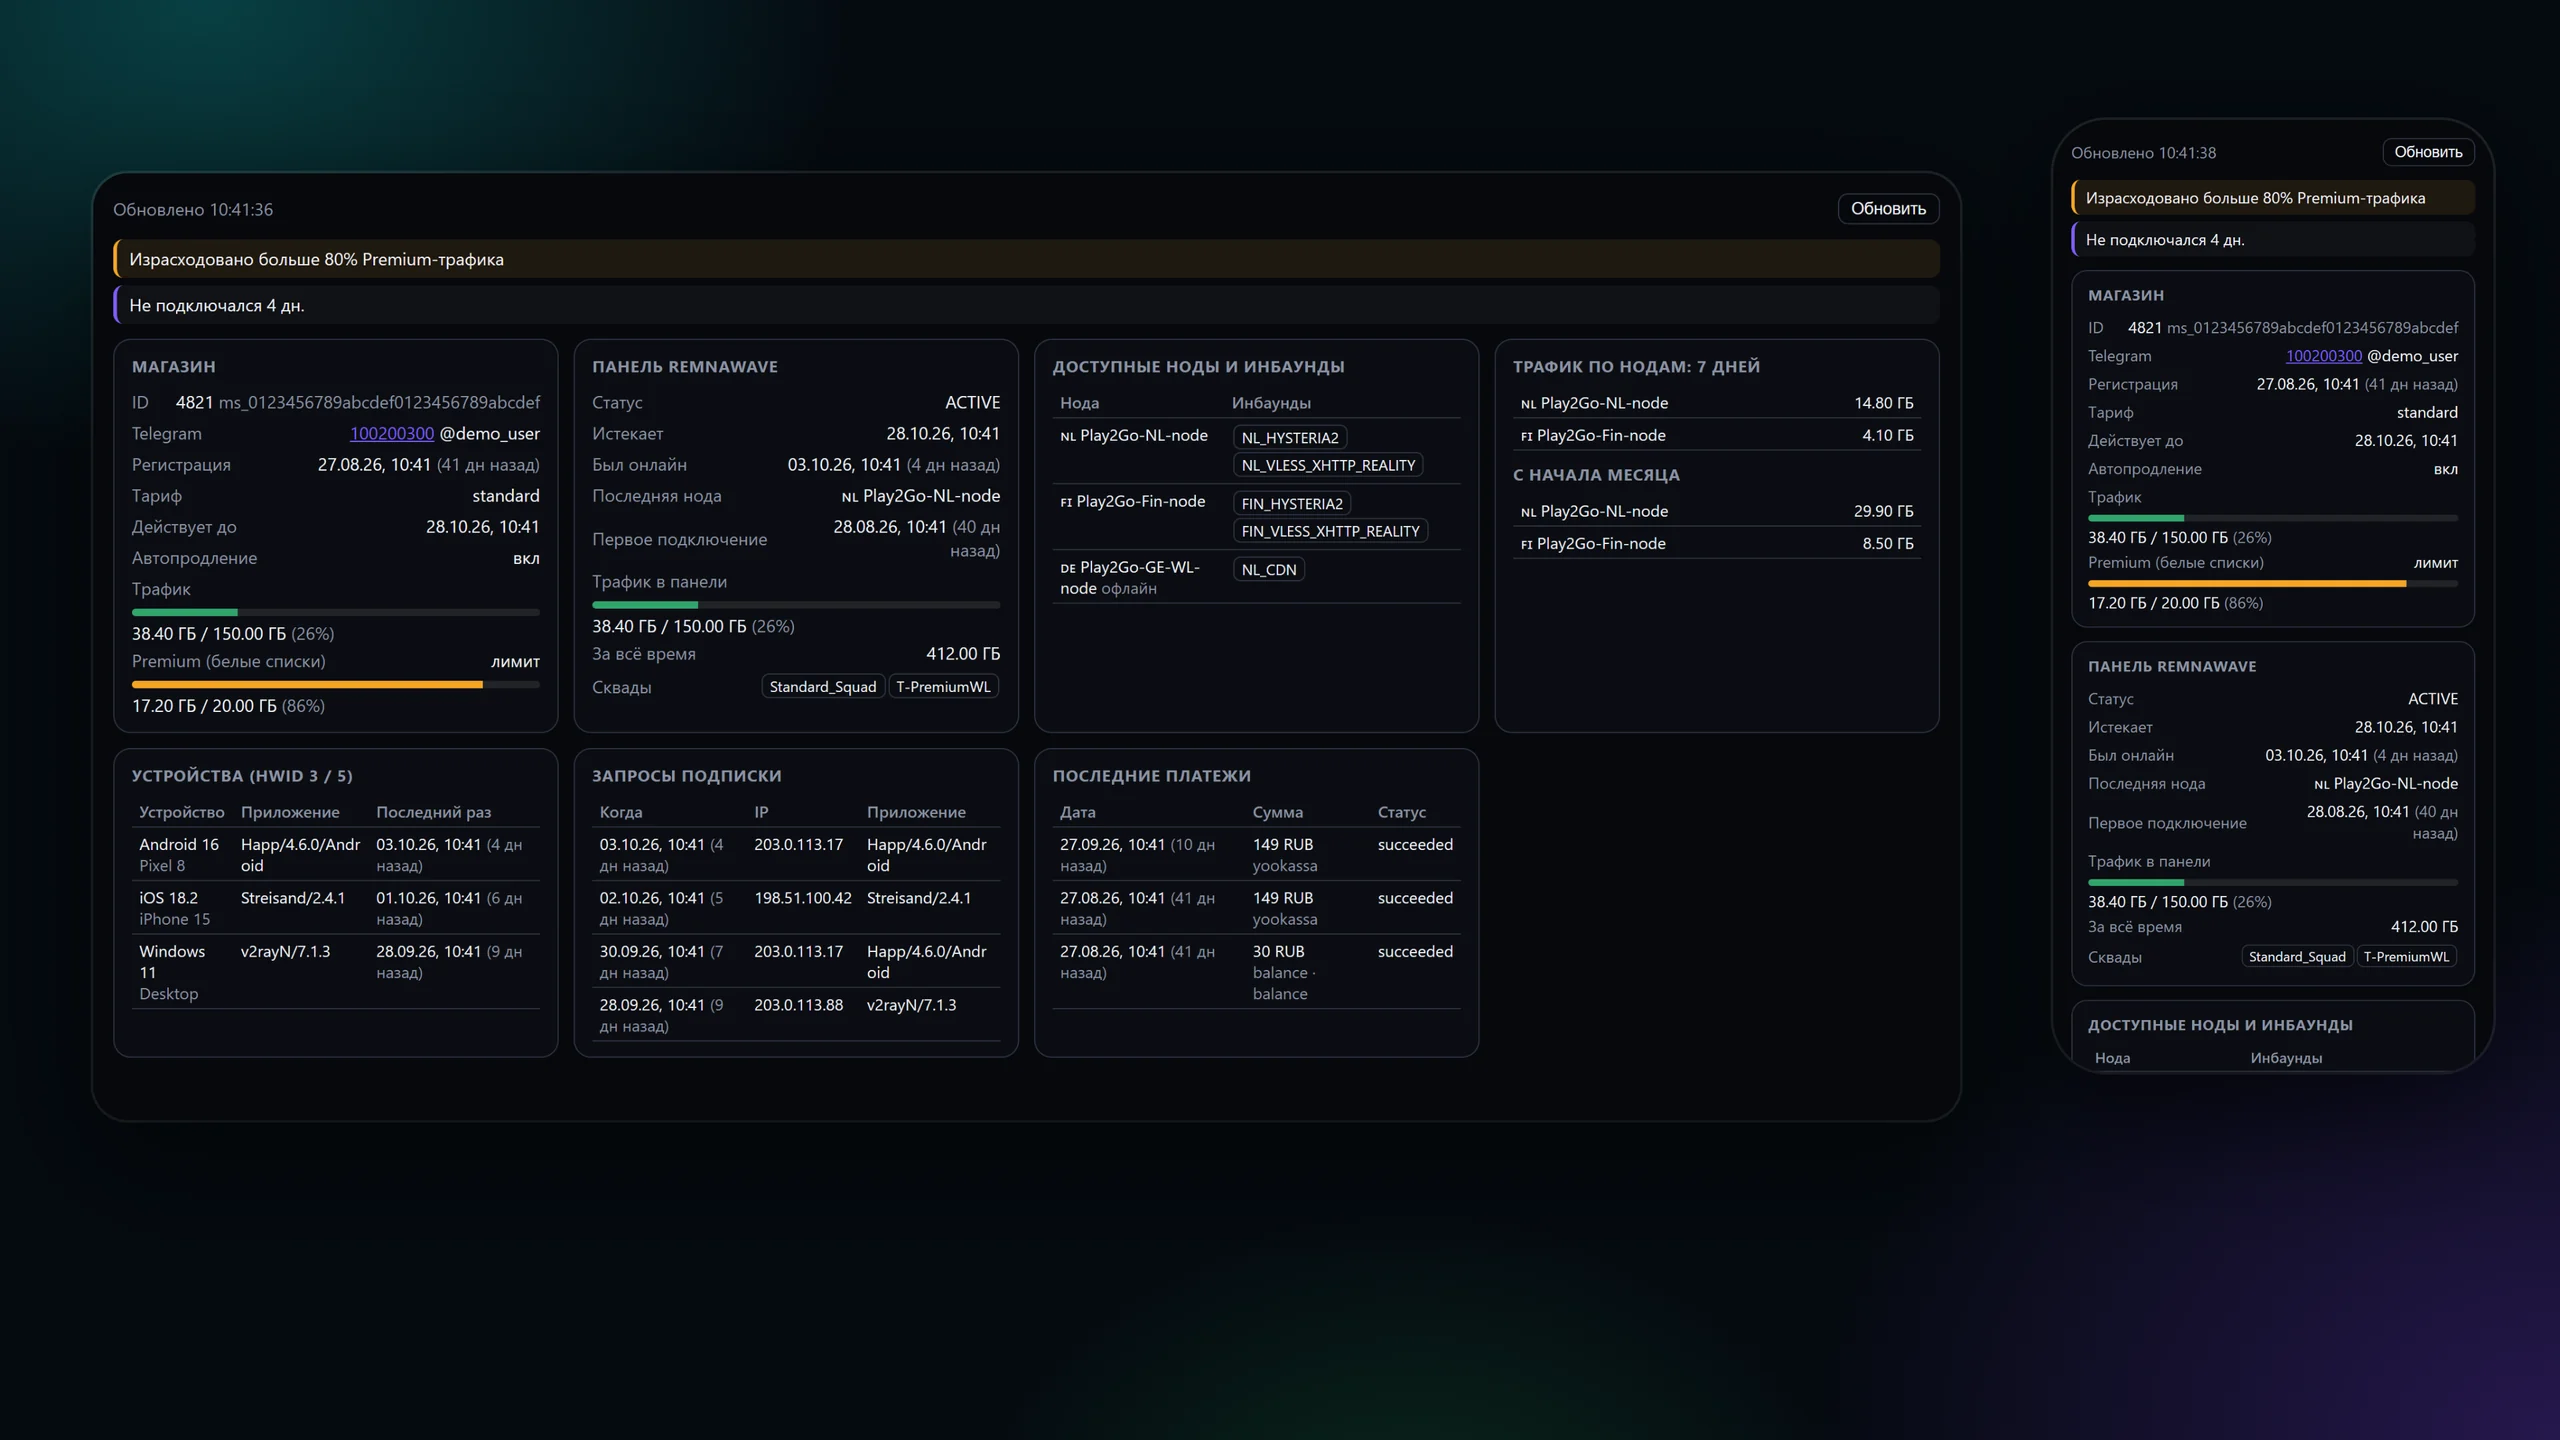
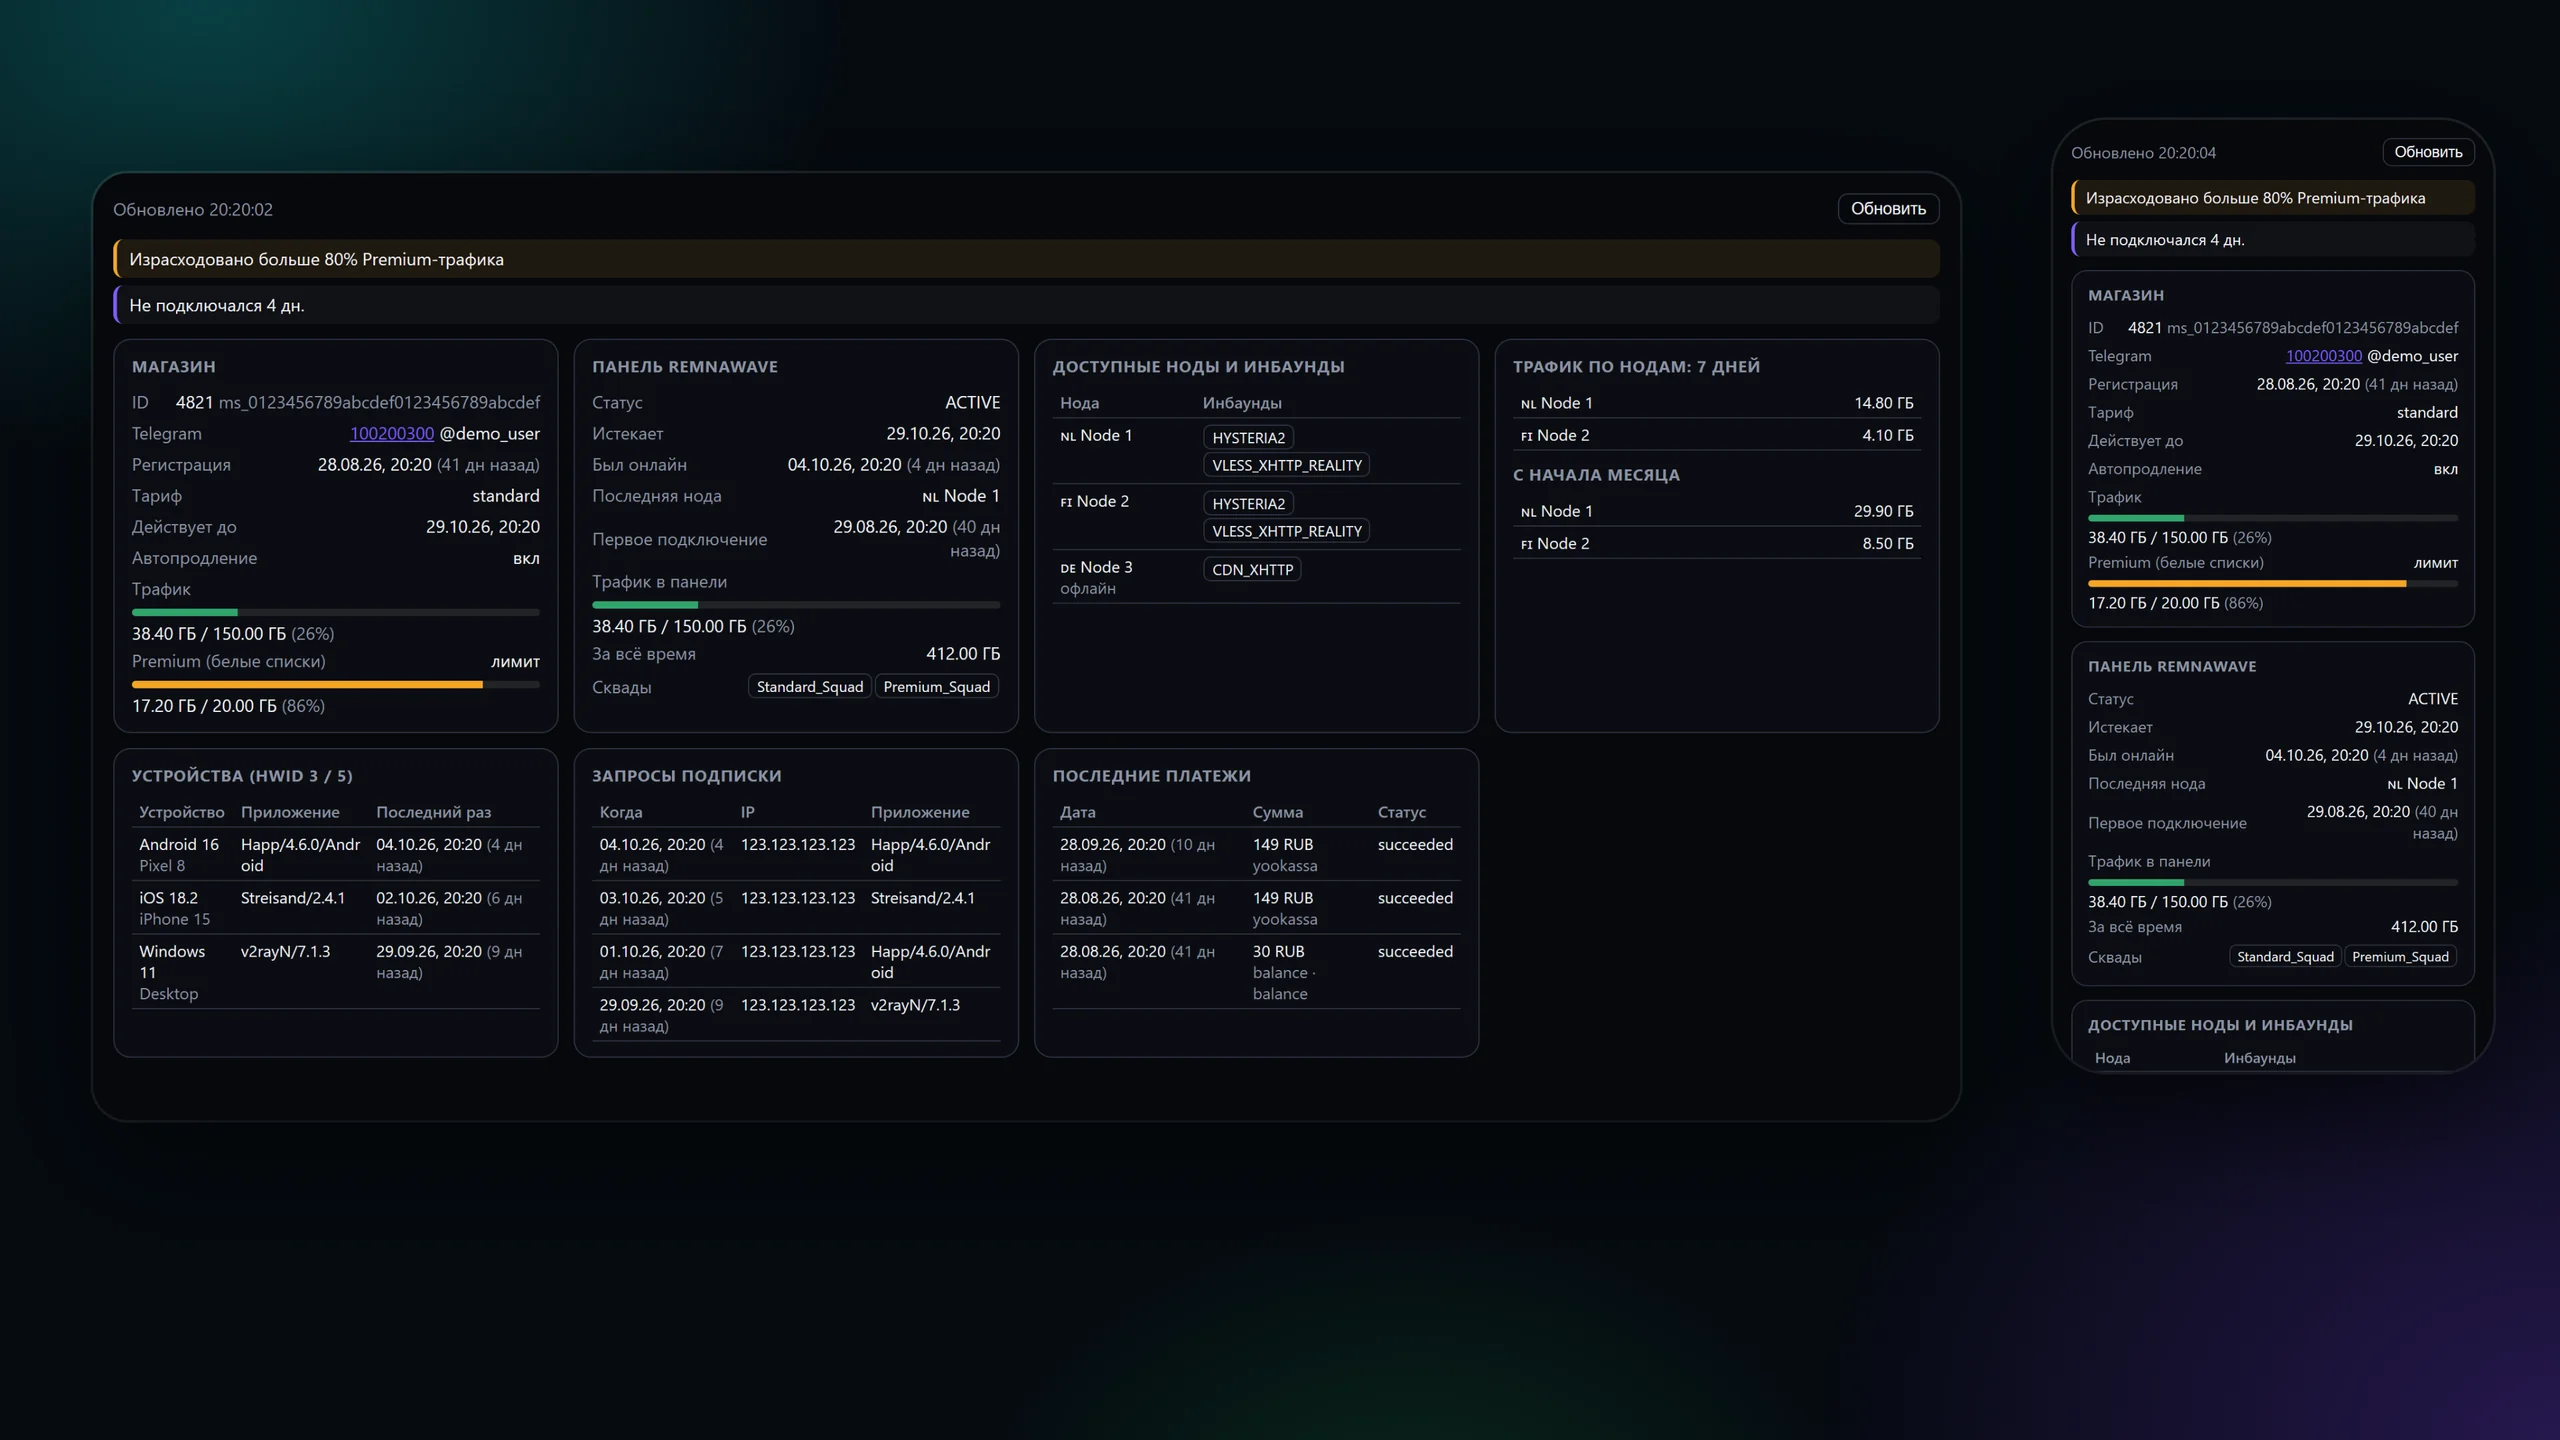
docs: neutral node names and IPs on the screenshots, drop the desktop card screenshot

diff --git a/preview/index.html b/preview/index.html
@@ -24,21 +24,21 @@
     subscription: { tariff: null, active: true, end_date: new Date(Date.now() + 37 * 864e5).toISOString(), auto_renew: false, traffic_used: 0, traffic_limit: 0 },
     panel: {
       status: "ACTIVE", expire_at: new Date(Date.now() + 37 * 864e5).toISOString(), online_at: null, last_node: null, first_connected_at: null,
-      traffic_used: 0, traffic_limit: 0, traffic_lifetime: 0, squads: ["Trial_Iternal_Squad"],
+      traffic_used: 0, traffic_limit: 0, traffic_lifetime: 0, squads: ["Trial_Squad"],
       accessible_nodes: [
-        { name: "Play2Go-NL-node", country: "NL", online: true, inbounds: ["NL_HYSTERIA2", "NL_HYSTERIA2_SALAMANDER", "NL_VLESS_XHTTP_REALITY"] },
-        { name: "Play2Go-Fin-node", country: "FI", online: true, inbounds: ["FIN_HYSTERIA2", "FIN_HYSTERIA2_SALAMANDER", "FIN_VLESS_XHTTP_REALITY"] },
+        { name: "Node 1", country: "NL", online: true, inbounds: ["HYSTERIA2", "HYSTERIA2_SALAMANDER", "VLESS_XHTTP_REALITY"] },
+        { name: "Node 2", country: "FI", online: true, inbounds: ["HYSTERIA2", "HYSTERIA2_SALAMANDER", "VLESS_XHTTP_REALITY"] },
       ],
       usage_week: [], usage_month: [], hwid_limit: 5,
       devices: [
-        { platform: "Android", os: "16", model: "samsung SM-A346M", app: "INCY/3.7.0/android Dalvik/2.1.0", last_seen: ago(21) },
-        { platform: "Android", os: "16", model: "SM-A346M", app: "Happ/4.6.0/Android/17903223988441985597", last_seen: ago(24) },
+        { platform: "Android", os: "16", model: "Pixel 8", app: "INCY/3.7.0/android Dalvik/2.1.0", last_seen: ago(21) },
+        { platform: "Android", os: "16", model: "Pixel 8", app: "Happ/4.6.0/Android", last_seen: ago(24) },
       ],
       sub_requests: [
-        { at: ago(21), ip: "203.0.113.17", app: "Happ/4.6.0/Android/17903223988441985597" },
-        { at: ago(24), ip: "198.51.100.42", app: "Happ/4.6.0/Android/17903223988441985597" },
-        { at: ago(25), ip: "203.0.113.88", app: "Happ/4.6.0/Android/17903223988441985597" },
-        { at: ago(45), ip: "203.0.113.88", app: "INCY/3.7.0/android Dalvik/2.1.0" },
+        { at: ago(21), ip: "123.123.123.123", app: "Happ/4.6.0/Android" },
+        { at: ago(24), ip: "123.123.123.123", app: "Happ/4.6.0/Android" },
+        { at: ago(25), ip: "123.123.123.123", app: "Happ/4.6.0/Android" },
+        { at: ago(45), ip: "123.123.123.123", app: "INCY/3.7.0/android Dalvik/2.1.0" },
       ],
     },
     payments: [],
@@ -58,25 +58,25 @@
     },
     panel: {
       status: "ACTIVE", expire_at: new Date(Date.now() + 21 * 864e5).toISOString(), online_at: ago(60 * 24 * 4), first_connected_at: ago(60 * 24 * 40),
-      last_node: { name: "Play2Go-NL-node", country: "NL", online: true },
-      traffic_used: 38.4 * GB, traffic_limit: 150 * GB, traffic_lifetime: 412 * GB, squads: ["Standard_Squad", "T-PremiumWL"], hwid_limit: 5,
+      last_node: { name: "Node 1", country: "NL", online: true },
+      traffic_used: 38.4 * GB, traffic_limit: 150 * GB, traffic_lifetime: 412 * GB, squads: ["Standard_Squad", "Premium_Squad"], hwid_limit: 5,
       accessible_nodes: [
-        { name: "Play2Go-NL-node", country: "NL", online: true, inbounds: ["NL_HYSTERIA2", "NL_VLESS_XHTTP_REALITY"] },
-        { name: "Play2Go-Fin-node", country: "FI", online: true, inbounds: ["FIN_HYSTERIA2", "FIN_VLESS_XHTTP_REALITY"] },
-        { name: "Play2Go-GE-WL-node", country: "DE", online: false, inbounds: ["NL_CDN"] },
+        { name: "Node 1", country: "NL", online: true, inbounds: ["HYSTERIA2", "VLESS_XHTTP_REALITY"] },
+        { name: "Node 2", country: "FI", online: true, inbounds: ["HYSTERIA2", "VLESS_XHTTP_REALITY"] },
+        { name: "Node 3", country: "DE", online: false, inbounds: ["CDN_XHTTP"] },
       ],
-      usage_week: [{ name: "Play2Go-NL-node", country: "NL", bytes: 14.8 * GB }, { name: "Play2Go-Fin-node", country: "FI", bytes: 4.1 * GB }],
-      usage_month: [{ name: "Play2Go-NL-node", country: "NL", bytes: 29.9 * GB }, { name: "Play2Go-Fin-node", country: "FI", bytes: 8.5 * GB }],
+      usage_week: [{ name: "Node 1", country: "NL", bytes: 14.8 * GB }, { name: "Node 2", country: "FI", bytes: 4.1 * GB }],
+      usage_month: [{ name: "Node 1", country: "NL", bytes: 29.9 * GB }, { name: "Node 2", country: "FI", bytes: 8.5 * GB }],
       devices: [
         { platform: "Android", os: "16", model: "Pixel 8", app: "Happ/4.6.0/Android", last_seen: ago(60 * 24 * 4) },
         { platform: "iOS", os: "18.2", model: "iPhone 15", app: "Streisand/2.4.1", last_seen: ago(60 * 24 * 6) },
         { platform: "Windows", os: "11", model: "Desktop", app: "v2rayN/7.1.3", last_seen: ago(60 * 24 * 9) },
       ],
       sub_requests: [
-        { at: ago(60 * 24 * 4), ip: "203.0.113.17", app: "Happ/4.6.0/Android" },
-        { at: ago(60 * 24 * 5), ip: "198.51.100.42", app: "Streisand/2.4.1" },
-        { at: ago(60 * 24 * 7), ip: "203.0.113.17", app: "Happ/4.6.0/Android" },
-        { at: ago(60 * 24 * 9), ip: "203.0.113.88", app: "v2rayN/7.1.3" },
+        { at: ago(60 * 24 * 4), ip: "123.123.123.123", app: "Happ/4.6.0/Android" },
+        { at: ago(60 * 24 * 5), ip: "123.123.123.123", app: "Streisand/2.4.1" },
+        { at: ago(60 * 24 * 7), ip: "123.123.123.123", app: "Happ/4.6.0/Android" },
+        { at: ago(60 * 24 * 9), ip: "123.123.123.123", app: "v2rayN/7.1.3" },
       ],
     },
     payments: [

diff --git a/README.md b/README.md
@@ -24,10 +24,6 @@
 
 [![Обзор](docs/overview.webp)](docs/overview.webp)
 
-**Карточка пользователя (десктоп)**
-
-[![Вкладка «Диагностика»](docs/screenshots/user-card.webp)](docs/screenshots/user-card.webp)
-
 ## Что проверяет плагин
 
 | Уровень | Проверка |
